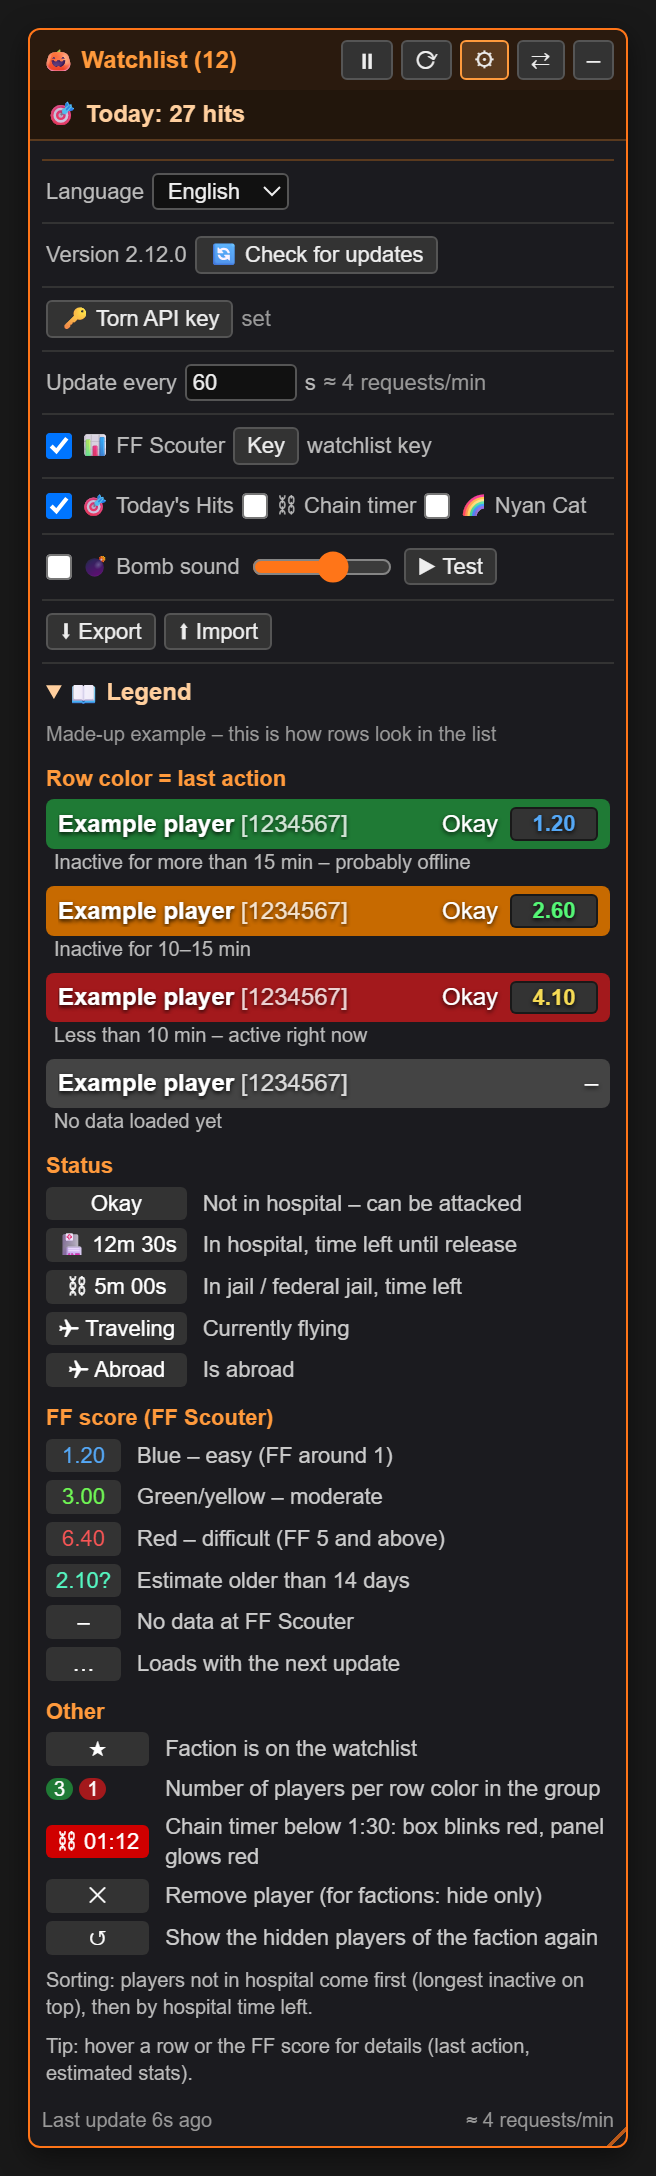
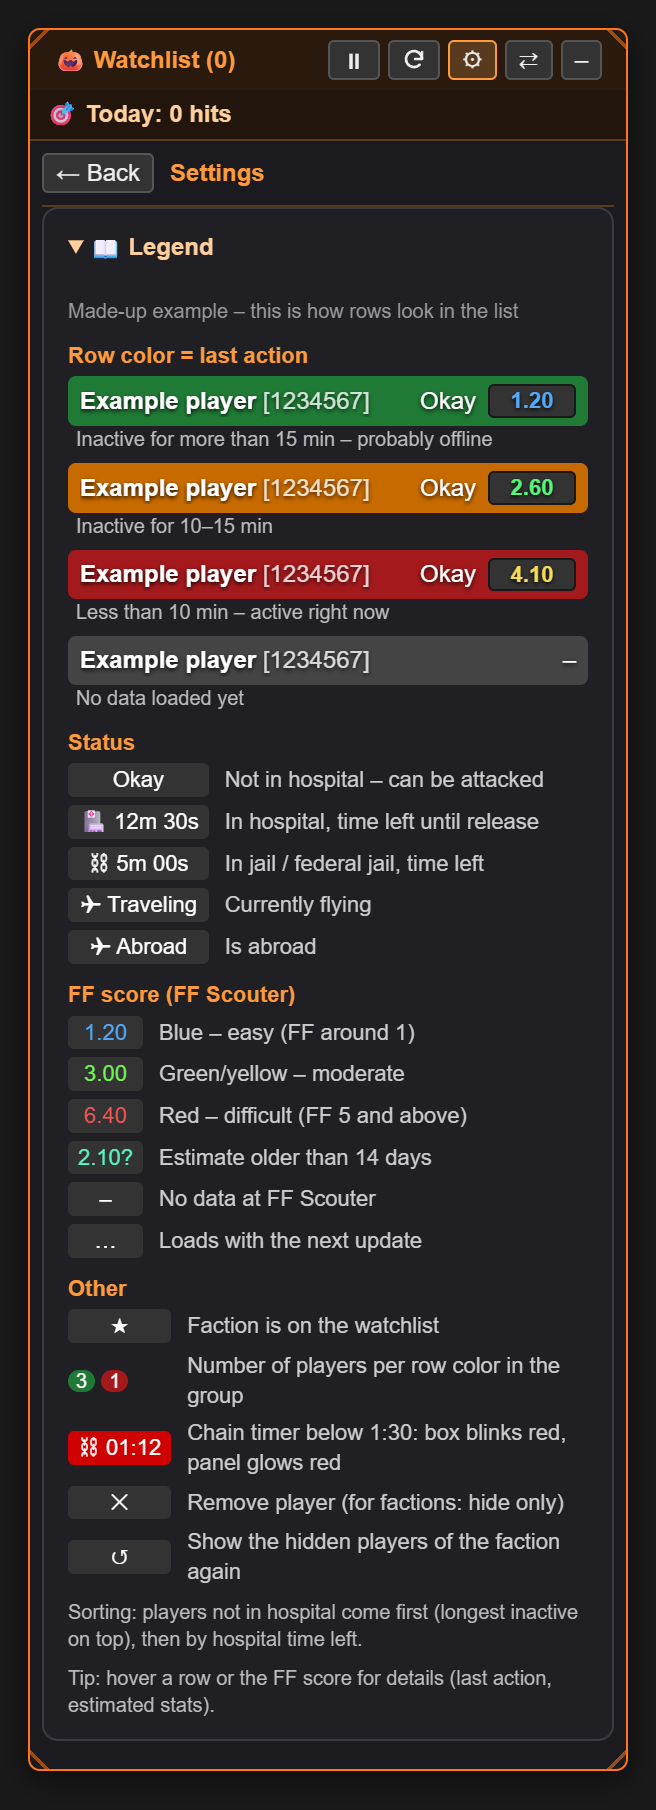
iPhone: panel starts closed on every page; README legend layout fixed (2.23.2)

Changed region(s): [[0.0305, 0.0, 0.9756, 0.9901], [0.4878, 0.0, 0.9451, 0.0619]]

diff --git a/torn-war-watchlist.user.js b/torn-war-watchlist.user.js
@@ -1,7 +1,7 @@
 // ==UserScript==
 // @name         Torn War Watchlist
 // @namespace    torn-war-watchlist
-// @version      2.23.1
+// @version      2.23.2
 // @description  Ranked war watchlist for Torn: players and whole factions, hospital countdown, last-action colors, FF Scouter, chain timer
 // @author       Provadis
 // @homepageURL  https://github.com/Provadis/torn-war-watchlist
@@ -1534,6 +1534,11 @@
   // Touch screen (iPhone, iPad, Android): bigger handles, "P" square instead of a collapsed panel
   const IS_TOUCH = window.matchMedia('(pointer: coarse)').matches;
   panel.classList.toggle('twl-touch', IS_TOUCH); // touch layout of the header buttons
+  // Open/closed: on PC remembered across pages; on touch screens every page starts closed
+  // (reload, tapping a target in the list …) – open it with the P when you need it.
+  let touchCollapsed = true;
+  const isCollapsed = () => (IS_TOUCH ? touchCollapsed : GM_getValue('collapsed', false));
+  const setCollapsed = (v) => { if (IS_TOUCH) touchCollapsed = v; else GM_setValue('collapsed', v); };
   // Header mode (touch only): a "P" button right after the ☰ menu in Torn's header, and the panel
   // sits inline below the header instead of floating. Without a spot in the header, the floating
   // "P" square stays in use.
@@ -1578,7 +1583,7 @@
     panel.classList.toggle('twl-inline', headerMode);
     if (headerMode) {
       panel.classList.remove('twl-wait');
-      const collapsed = GM_getValue('collapsed', false);
+      const collapsed = isCollapsed();
       const root = document.getElementById('header-root');
       if (root && root.nextElementSibling !== panel) root.after(panel);
       panel.classList.toggle('twl-collapsed', collapsed);
@@ -1602,7 +1607,7 @@
     const side = pos ? 'left' : GM_getValue('side', 'right');
     panel.classList.toggle('twl-right', side === 'right');
     panel.classList.toggle('twl-left', side === 'left');
-    const collapsed = GM_getValue('collapsed', false);
+    const collapsed = isCollapsed();
     panel.classList.toggle('twl-collapsed', collapsed);
     panel.classList.toggle('twl-mini-mode', collapsed && IS_TOUCH);
     // Saved size, but never bigger than the screen (e.g. a size imported from a PC onto a phone).
@@ -1689,7 +1694,7 @@
       if (pos) {
         GM_setValue('pos', pos);
       } else if (e.type === 'pointerup') {
-        GM_setValue('collapsed', false);
+        setCollapsed(false);
         applyLayout();
       }
     };
@@ -1757,8 +1762,8 @@
   function toggleFromHeader() {
     if (Date.now() - headerToggleAt < 500) return; // pointerup and click from the same tap
     headerToggleAt = Date.now();
-    const open = GM_getValue('collapsed', false);
-    GM_setValue('collapsed', !open);
+    const open = isCollapsed();
+    setCollapsed(!open);
     applyLayout();
     if (open) window.scrollTo({ top: 0, behavior: 'smooth' }); // header + panel in view, even when scrolled down
   }
@@ -2169,7 +2174,7 @@
         applyLayout();
         break;
       case 'collapse':
-        GM_setValue('collapsed', !GM_getValue('collapsed', false));
+        setCollapsed(!isCollapsed());
         applyLayout();
         break;
       case 'gen-key':
@@ -2333,8 +2338,8 @@
     $('.twl-spage').hidden = !open;
     applyTab();
     $('.twl-settings-btn').classList.toggle('twl-on', open);
-    if (open && GM_getValue('collapsed', false)) {
-      GM_setValue('collapsed', false);
+    if (open && isCollapsed()) {
+      setCollapsed(false);
       applyLayout();
     }
   }
@@ -3341,7 +3346,7 @@
   GM_addValueChangeListener('list', (_k, _o, _n, remote) => { if (remote) render(); });
   GM_addValueChangeListener('factions', (_k, _o, _n, remote) => { if (remote) render(); });
   GM_addValueChangeListener('side', (_k, _o, _n, remote) => { if (remote) applyLayout(); });
-  GM_addValueChangeListener('collapsed', (_k, _o, _n, remote) => { if (remote) applyLayout(); });
+  GM_addValueChangeListener('collapsed', (_k, _o, _n, remote) => { if (remote && !IS_TOUCH) applyLayout(); });
   GM_addValueChangeListener('size', (_k, _o, _n, remote) => { if (remote) applyLayout(); });
   GM_addValueChangeListener('pos', (_k, _o, _n, remote) => { if (remote) applyLayout(); });
   GM_addValueChangeListener('refreshS', (_k, _o, n, remote) => { if (remote) intervalInput.value = n; });

diff --git a/README.md b/README.md
@@ -4,7 +4,7 @@
 
 **Keep an eye on your ranked war targets: who is online, who is in hospital, how strong they are and how much time the chain has left – all in one small panel right inside Torn.**
 
-[![Version](https://img.shields.io/badge/version-2.23.1-ff7518?style=for-the-badge)](https://raw.githubusercontent.com/Provadis/torn-war-watchlist/main/torn-war-watchlist.user.js)
+[![Version](https://img.shields.io/badge/version-2.23.2-ff7518?style=for-the-badge)](https://raw.githubusercontent.com/Provadis/torn-war-watchlist/main/torn-war-watchlist.user.js)
 [![Tampermonkey](https://img.shields.io/badge/Tampermonkey-Userscript-00485B?style=for-the-badge&logo=tampermonkey&logoColor=white)](https://www.tampermonkey.net/)
 [![Language](https://img.shields.io/badge/UI-EN%20%7C%20DE-1b1b1f?style=for-the-badge)](#-settings--language)
 [![License](https://img.shields.io/badge/license-MIT-2ea44f?style=for-the-badge)](LICENSE)
@@ -143,7 +143,7 @@ Works with [Tampermonkey for Safari](https://apps.apple.com/app/tampermonkey/id6
 3. Open the [install link](https://raw.githubusercontent.com/Provadis/torn-war-watchlist/main/torn-war-watchlist.user.js) in **Safari** and install.
 4. Move your list and keys over with ⬇ Export on the PC and ⬆ Import on the phone.
 
-On touch screens the resize corners are bigger and the war list buttons are always visible. In Torn's mobile header a small orange **P** button sits right after the ☰ menu. While a chain runs, a timer badge appears next to it (e.g. **⛓ 03:45**, just **03:45** if space is tight) and blinks red below 1:30. Torn's mobile chain bar has no timer, so on touch screens the timer comes from the Torn API – every 6 seconds while a chain runs, and not at all otherwise (plus one request on page load and whenever the chain count changes). Tapping it opens the watchlist right below Torn's header in full screen height – the rest of Torn moves down underneath; tap again (or –) to close it. If the header layout isn't recognized, the panel falls back to a floating **P** square you can tap and drag.
+On touch screens the resize corners are bigger and the war list buttons are always visible. In Torn's mobile header a small orange **P** button sits right after the ☰ menu. While a chain runs, a timer badge appears next to it (e.g. **⛓ 03:45**, just **03:45** if space is tight) and blinks red below 1:30. Torn's mobile chain bar has no timer, so on touch screens the timer comes from the Torn API – every 6 seconds while a chain runs, and not at all otherwise (plus one request on page load and whenever the chain count changes). Tapping it opens the watchlist right below Torn's header in full screen height – the rest of Torn moves down underneath; tap again (or –) to close it. Every new page (reload, opening a target from the list …) starts with the panel closed. If the header layout isn't recognized, the panel falls back to a floating **P** square you can tap and drag.
 
 On a **profile page** the badge next to the P shows that player's **FF score** in its color (needs FF Scouter switched on). While a chain runs, FF score and chain timer take turns every 2 seconds.
 
@@ -187,8 +187,6 @@ More ways the script saves calls:
 
 ## 📖 Legend
 
-<img align="right" src="docs/images/legend.png" width="280" alt="Legend in the settings">
-
 | Marker | Meaning |
 |---|---|
 | 🟩 / 🟧 / 🟥 row | last action: > 15 min / 10–15 min / < 10 min |
@@ -206,7 +204,10 @@ More ways the script saves calls:
 
 The same legend is built into the script under **⚙ → 📖 Legend**, with a made-up example player.
 
-<br clear="right">
+<details>
+<summary>Screenshot: the legend in the panel</summary>
+<p align="center"><img src="docs/images/legend.png" width="300" alt="Legend in the settings"></p>
+</details>
 
 ---
 
@@ -302,6 +303,7 @@ The script restores its browser backup automatically. If something is still miss
 
 | Version | What's new |
 |---|---|
+| **2.23.2** | iPhone/iPad: the panel starts closed on every page (reload, opening a target …) – the P opens it. PC keeps remembering it |
 | **2.23.1** | ToS: key access level is *Custom* with the exact selections; the tile is now called **✨ Create custom key** |
 | **2.23.0** | **✨ Create custom key** in the settings opens Torn's pre-filled key form with only the needed access; key prompts and settings show how the key is used (API ToS) |
 | **2.22.1** | Smoother on iPhone: panel no longer resizes while Safari's address bar slides, honor images keep their space before loading, lists don't pull the page along at their ends, far less background work |
